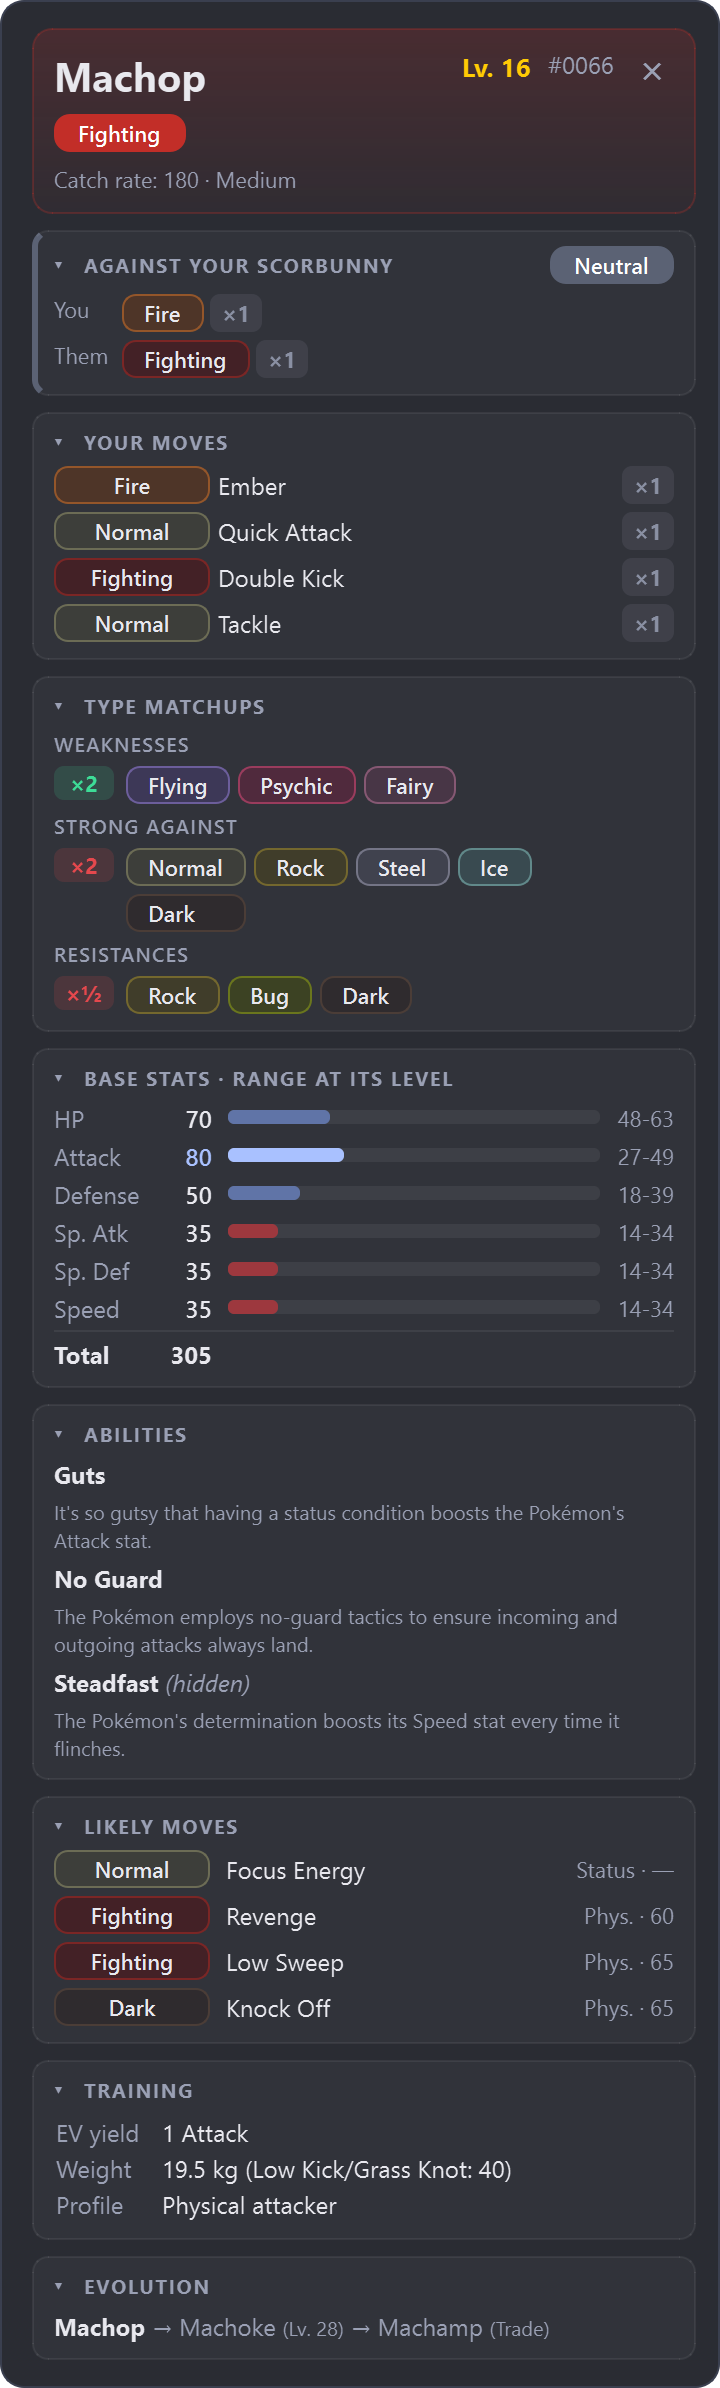
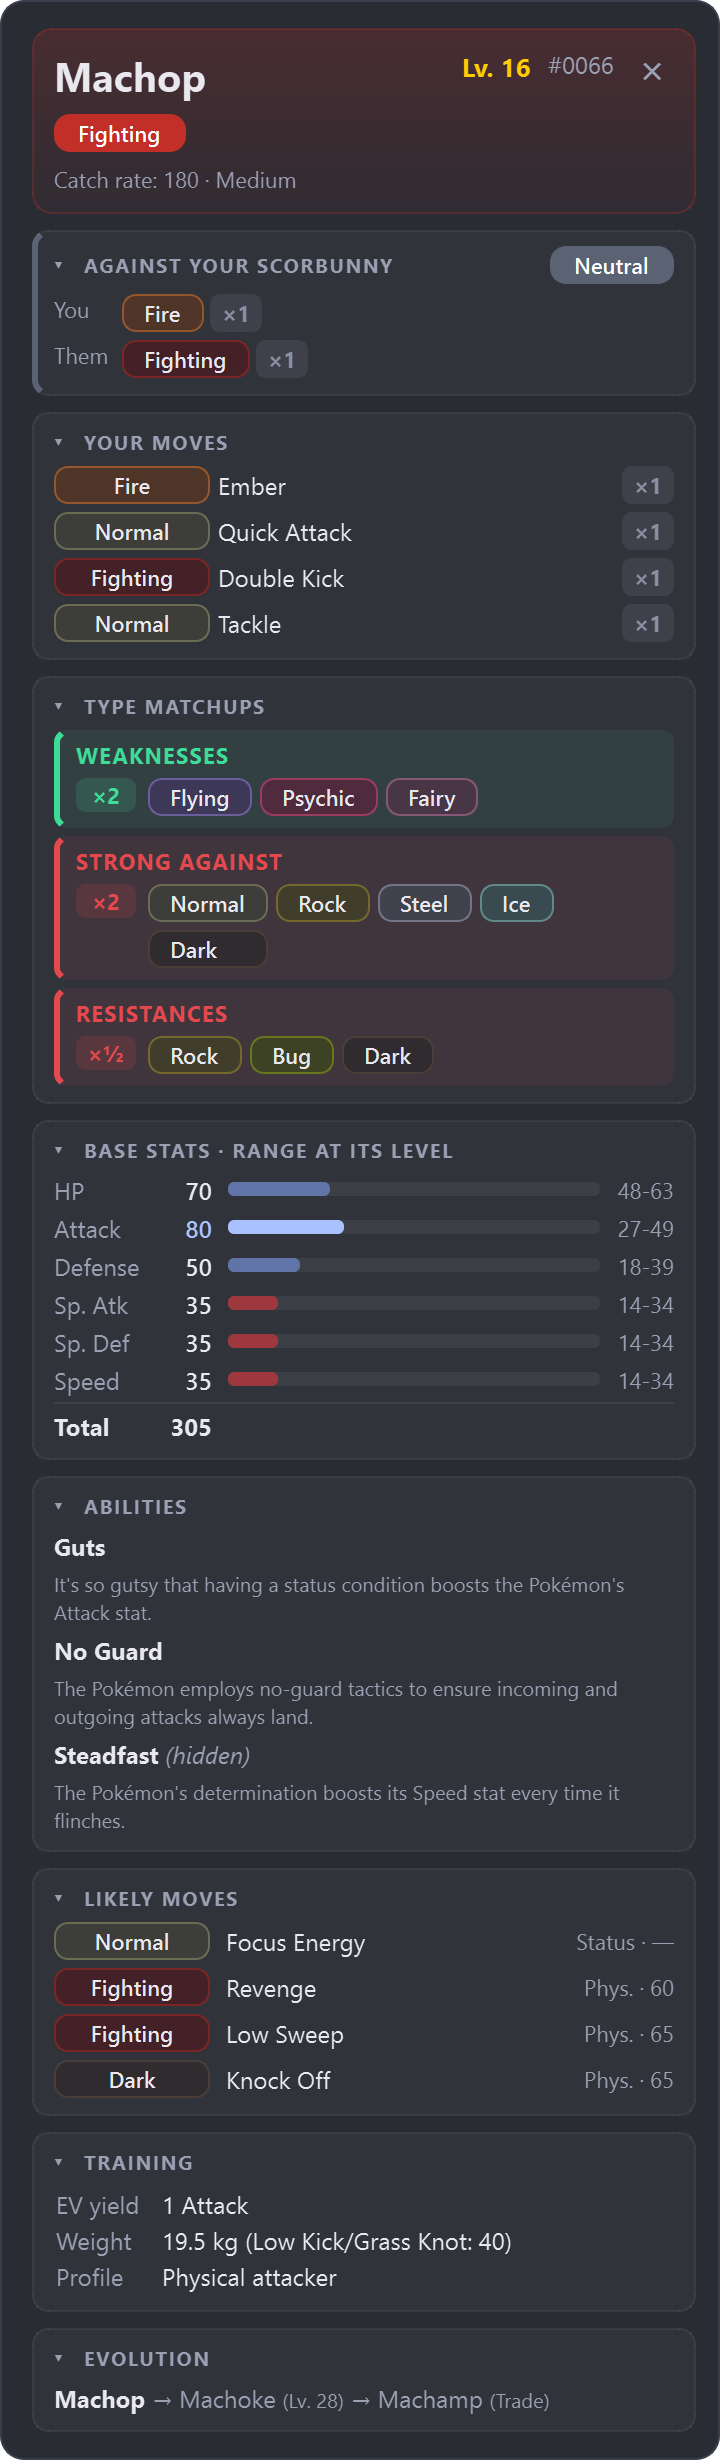
feat: eficacias en franjas de color para distinguir los apartados de un vistazo

diff --git a/site/guide.html b/site/guide.html
@@ -225,7 +225,7 @@
           <p>Con la <b>detección automática</b> activada no tienes que pulsar nada: en cuanto se ve el nombre del rival, la ficha aparece junto al emulador. Se oculta unos segundos después de terminar el combate (4 s por defecto).</p>
           <div class="pair">
             <figure class="shot shot-card">
-              <img src="assets/guide/es/card-default.png" width="300" height="285" loading="lazy" alt="Ficha de Machop en modo Normal con los ajustes de fábrica">
+              <img src="assets/guide/es/card-default.png" width="300" height="309" loading="lazy" alt="Ficha de Machop en modo Normal con los ajustes de fábrica">
               <figcaption>Así sale de fábrica: lo esencial.</figcaption>
             </figure>
             <dl class="defs">
@@ -249,11 +249,11 @@
           <p>Cambia de modo con <kbd>Ctrl</kbd>+<kbd>Alt</kbd>+<kbd>M</kbd>, desde la bandeja (<i>Modo de la ficha</i>) o en <i>Ajustes › Ficha</i>.</p>
           <div class="pair pair-top">
             <figure class="shot shot-card">
-              <img src="assets/guide/es/card-normal.png" width="300" height="450" loading="lazy" alt="Ficha Normal con todas las secciones">
+              <img src="assets/guide/es/card-normal.png" width="300" height="474" loading="lazy" alt="Ficha Normal con todas las secciones">
               <figcaption><span class="pill pill-normal">Normal</span> Para la aventura y la captura.</figcaption>
             </figure>
             <figure class="shot shot-card">
-              <img src="assets/guide/es/card-competitive.png" width="360" height="1180" loading="lazy" alt="Ficha Competitiva con nivel, estadísticas a su nivel, habilidades, movimientos probables y entrenamiento">
+              <img src="assets/guide/es/card-competitive.png" width="360" height="1216" loading="lazy" alt="Ficha Competitiva con nivel, estadísticas a su nivel, habilidades, movimientos probables y entrenamiento">
               <figcaption><span class="pill pill-pro">Competitivo</span> Para combates duros y retos.</figcaption>
             </figure>
           </div>
@@ -279,7 +279,7 @@
             <dt>2.º rival (combates dobles)</dt><dd>En los combates dobles aparecen dos fichas, una al lado de la otra, en el mismo orden que los recuadros en la pantalla.</dd>
           </dl>
           <figure class="shot shot-card">
-            <img src="assets/guide/es/card-double.png" width="586" height="476" loading="lazy" alt="Combate doble: fichas de Zigzagoon de Galar y Stufful comparadas con tu Scorbunny">
+            <img src="assets/guide/es/card-double.png" width="586" height="512" loading="lazy" alt="Combate doble: fichas de Zigzagoon de Galar y Stufful comparadas con tu Scorbunny">
             <figcaption>Combate doble con tu Pokémon calibrado.</figcaption>
           </figure>
           <p class="note">«Contra tu Pokémon» y «Tus movimientos» vienen ocultas de fábrica. Actívalas en <a href="#a-medida">Ajustes › Ficha</a> después de calibrar.</p>
@@ -289,7 +289,7 @@
           <h2>Megas y otras formas</h2>
           <div class="pair">
             <figure class="shot shot-card">
-              <img src="assets/guide/es/card-form.png" width="300" height="517" loading="lazy" alt="Ficha de Rotom Lavado con la lista de sus otras formas">
+              <img src="assets/guide/es/card-form.png" width="300" height="553" loading="lazy" alt="Ficha de Rotom Lavado con la lista de sus otras formas">
             </figure>
             <div>
               <p>Las <b>formas regionales</b> (Alola, Galar, Hisui, Paldea) se eligen solas según el juego del perfil.</p>
@@ -650,7 +650,7 @@
           <p>With <b>automatic detection</b> on you don't press anything: as soon as the opponent's name is on screen, the card appears next to the emulator. It hides a few seconds after the battle ends (4 s by default).</p>
           <div class="pair">
             <figure class="shot shot-card">
-              <img src="assets/guide/en/card-default.png" width="300" height="285" loading="lazy" alt="Machop card in Normal mode with the default settings">
+              <img src="assets/guide/en/card-default.png" width="300" height="309" loading="lazy" alt="Machop card in Normal mode with the default settings">
               <figcaption>Out of the box: just the essentials.</figcaption>
             </figure>
             <dl class="defs">
@@ -674,11 +674,11 @@
           <p>Switch modes with <kbd>Ctrl</kbd>+<kbd>Alt</kbd>+<kbd>M</kbd>, from the tray (<i>Card mode</i>) or in <i>Settings › Card</i>.</p>
           <div class="pair pair-top">
             <figure class="shot shot-card">
-              <img src="assets/guide/en/card-normal.png" width="300" height="450" loading="lazy" alt="Normal card with every section">
+              <img src="assets/guide/en/card-normal.png" width="300" height="474" loading="lazy" alt="Normal card with every section">
               <figcaption><span class="pill pill-normal">Normal</span> For adventuring and catching.</figcaption>
             </figure>
             <figure class="shot shot-card">
-              <img src="assets/guide/en/card-competitive.png" width="360" height="1194" loading="lazy" alt="Competitive card with level, stats at that level, abilities, likely moves and training data">
+              <img src="assets/guide/en/card-competitive.png" width="360" height="1230" loading="lazy" alt="Competitive card with level, stats at that level, abilities, likely moves and training data">
               <figcaption><span class="pill pill-pro">Competitive</span> For hard battles and challenge runs.</figcaption>
             </figure>
           </div>
@@ -704,7 +704,7 @@
             <dt>2nd opponent (double battles)</dt><dd>In double battles you get two cards side by side, in the same order as the boxes on screen.</dd>
           </dl>
           <figure class="shot shot-card">
-            <img src="assets/guide/en/card-double.png" width="586" height="476" loading="lazy" alt="Double battle: Galarian Zigzagoon and Stufful cards compared with your Scorbunny">
+            <img src="assets/guide/en/card-double.png" width="586" height="512" loading="lazy" alt="Double battle: Galarian Zigzagoon and Stufful cards compared with your Scorbunny">
             <figcaption>A double battle with your Pokémon calibrated.</figcaption>
           </figure>
           <p class="note">"Against your Pokémon" and "Your moves" are hidden out of the box. Turn them on in <a href="#customize">Settings › Card</a> once you've calibrated.</p>
@@ -714,7 +714,7 @@
           <h2>Megas and other forms</h2>
           <div class="pair">
             <figure class="shot shot-card">
-              <img src="assets/guide/en/card-form.png" width="300" height="517" loading="lazy" alt="Wash Rotom card listing its other forms">
+              <img src="assets/guide/en/card-form.png" width="300" height="553" loading="lazy" alt="Wash Rotom card listing its other forms">
             </figure>
             <div>
               <p><b>Regional forms</b> (Alola, Galar, Hisui, Paldea) are picked automatically from the profile's game.</p>

diff --git a/site/index.html b/site/index.html
@@ -275,7 +275,7 @@
             </ul>
           </div>
           <div class="mode-shot">
-            <img src="assets/card-normal.png" width="300" height="536" loading="lazy"
+            <img src="assets/card-normal.png" width="300" height="572" loading="lazy"
                  alt="Normal mode card" data-en-alt="Normal mode card" data-es-alt="Ficha en modo Normal">
           </div>
         </article>
@@ -291,7 +291,7 @@
             </ul>
           </div>
           <div class="mode-shot clip" id="pro-shot">
-            <img src="assets/card-competitive.png" width="360" height="1134" loading="lazy"
+            <img src="assets/card-competitive.png" width="360" height="1182" loading="lazy"
                  alt="Competitive mode card with level, stat ranges, abilities, likely moves and training data"
                  data-en-alt="Competitive mode card with level, stat ranges, abilities, likely moves and training data"
                  data-es-alt="Ficha en modo Competitivo con nivel, rangos de estadísticas, habilidades, movimientos probables y entrenamiento">
@@ -315,7 +315,7 @@
         </ul>
       </div>
       <figure class="split-shot reveal">
-        <img src="assets/card-double.png" width="586" height="554" loading="lazy"
+        <img src="assets/card-double.png" width="586" height="614" loading="lazy"
              alt="Double battle: Galarian Zigzagoon and Stufful cards side by side, each compared with your Scorbunny"
              data-en-alt="Double battle: Galarian Zigzagoon and Stufful cards side by side, each compared with your Scorbunny"
              data-es-alt="Combate doble: fichas de Zigzagoon de Galar y Stufful una al lado de la otra, cada una comparada con tu Scorbunny">
@@ -342,7 +342,7 @@
         </div>
         <div class="obs-canvas">
           <span class="live">LIVE</span>
-          <img src="assets/card-normal.png" width="300" height="536" loading="lazy" alt="">
+          <img src="assets/card-normal.png" width="300" height="572" loading="lazy" alt="">
         </div>
       </div>
     </section>

diff --git a/src/battlelens/ui/overlay.py b/src/battlelens/ui/overlay.py
@@ -612,7 +612,19 @@ class Overlay(QWidget):
             return
         block = self._block("eff", _("Eficacias"), layout)
         for title, rows, tone in present:
-            block.add(_sub_title(title))
+            # Cada apartado en su franja tintada (verde/rojo/gris) para distinguirlos de un vistazo
+            color = theme.tone_color(tone)
+            group = QFrame()
+            group.setObjectName("eff-group")
+            group.setStyleSheet(f"QFrame#eff-group {{ background:{theme.rgba(color, 0.08)};"
+                                f" border-left:3px solid {color}; border-radius:6px; }}")
+            group_layout = QVBoxLayout(group)
+            group_layout.setContentsMargins(8, 5, 6, 6)
+            group_layout.setSpacing(4)
+            heading = _sub_title(title)
+            heading.setStyleSheet(f"color:{color}; font-size:11px; font-weight:700; letter-spacing:0.6px;")
+            group_layout.addWidget(heading)
+            block.add(group)
             for m, types in rows:
                 row = QHBoxLayout()
                 row.setSpacing(6)
@@ -622,7 +634,7 @@ class Overlay(QWidget):
                 # Dentro del bloque y con la columna del multiplicador, en Normal (300 px) caben 3 por fila
                 pills = [_pill(self._type_label(t), t) for t in types]
                 row.addWidget(_FlowRow(pills, per_row=4 if self.competitive else 3), 1)
-                block.add(row)
+                group_layout.addLayout(row)
         for line in lines:
             block.add(self._muted(line, size=10, name="ability-effect-line"))
 

diff --git a/CHANGELOG.md b/CHANGELOG.md
@@ -4,13 +4,19 @@ Formato basado en [Keep a Changelog](https://keepachangelog.com/es-ES/1.1.0/); v
 
 ## [Unreleased]
 
+### Cambiado
+- Eficacias más fáciles de leer de un vistazo: cada apartado (Debilidades, Fuerte contra, Resistencias, Inmunidades) va en su propia franja con el color de lo que significa para ti (verde bueno, rojo malo, gris neutro).
+
 ### Corregido
-- La detección automática lee el nivel en juegos con fuente pixelada (hacks de GBA en mGBA), donde el OCR veía «Lv» como «Lu» y la ficha no llegaba a salir.
+- La detección automática lee el nivel en juegos con fuente pixelada (hacks de GBA en mGBA), donde el OCR veía «Lv» como «Lu» o solo lo leía en algunas versiones de la imagen, y la ficha no llegaba a salir.
 
 ### English
 
+**Changed**
+- Effectiveness is easier to read at a glance: each group (Weaknesses, Strong against, Resistances, Immunities) sits in its own strip tinted with what it means for you (green good, red bad, grey neutral).
+
 **Fixed**
-- Auto-detection now reads the level in games with a pixel font (GBA hacks on mGBA), where OCR saw "Lv" as "Lu" and the card never showed up.
+- Auto-detection now reads the level in games with a pixel font (GBA hacks on mGBA), where OCR saw "Lv" as "Lu" or only read it in some versions of the image, and the card never showed up.
 
 ## [0.7.0] - 2026-11-13
 
